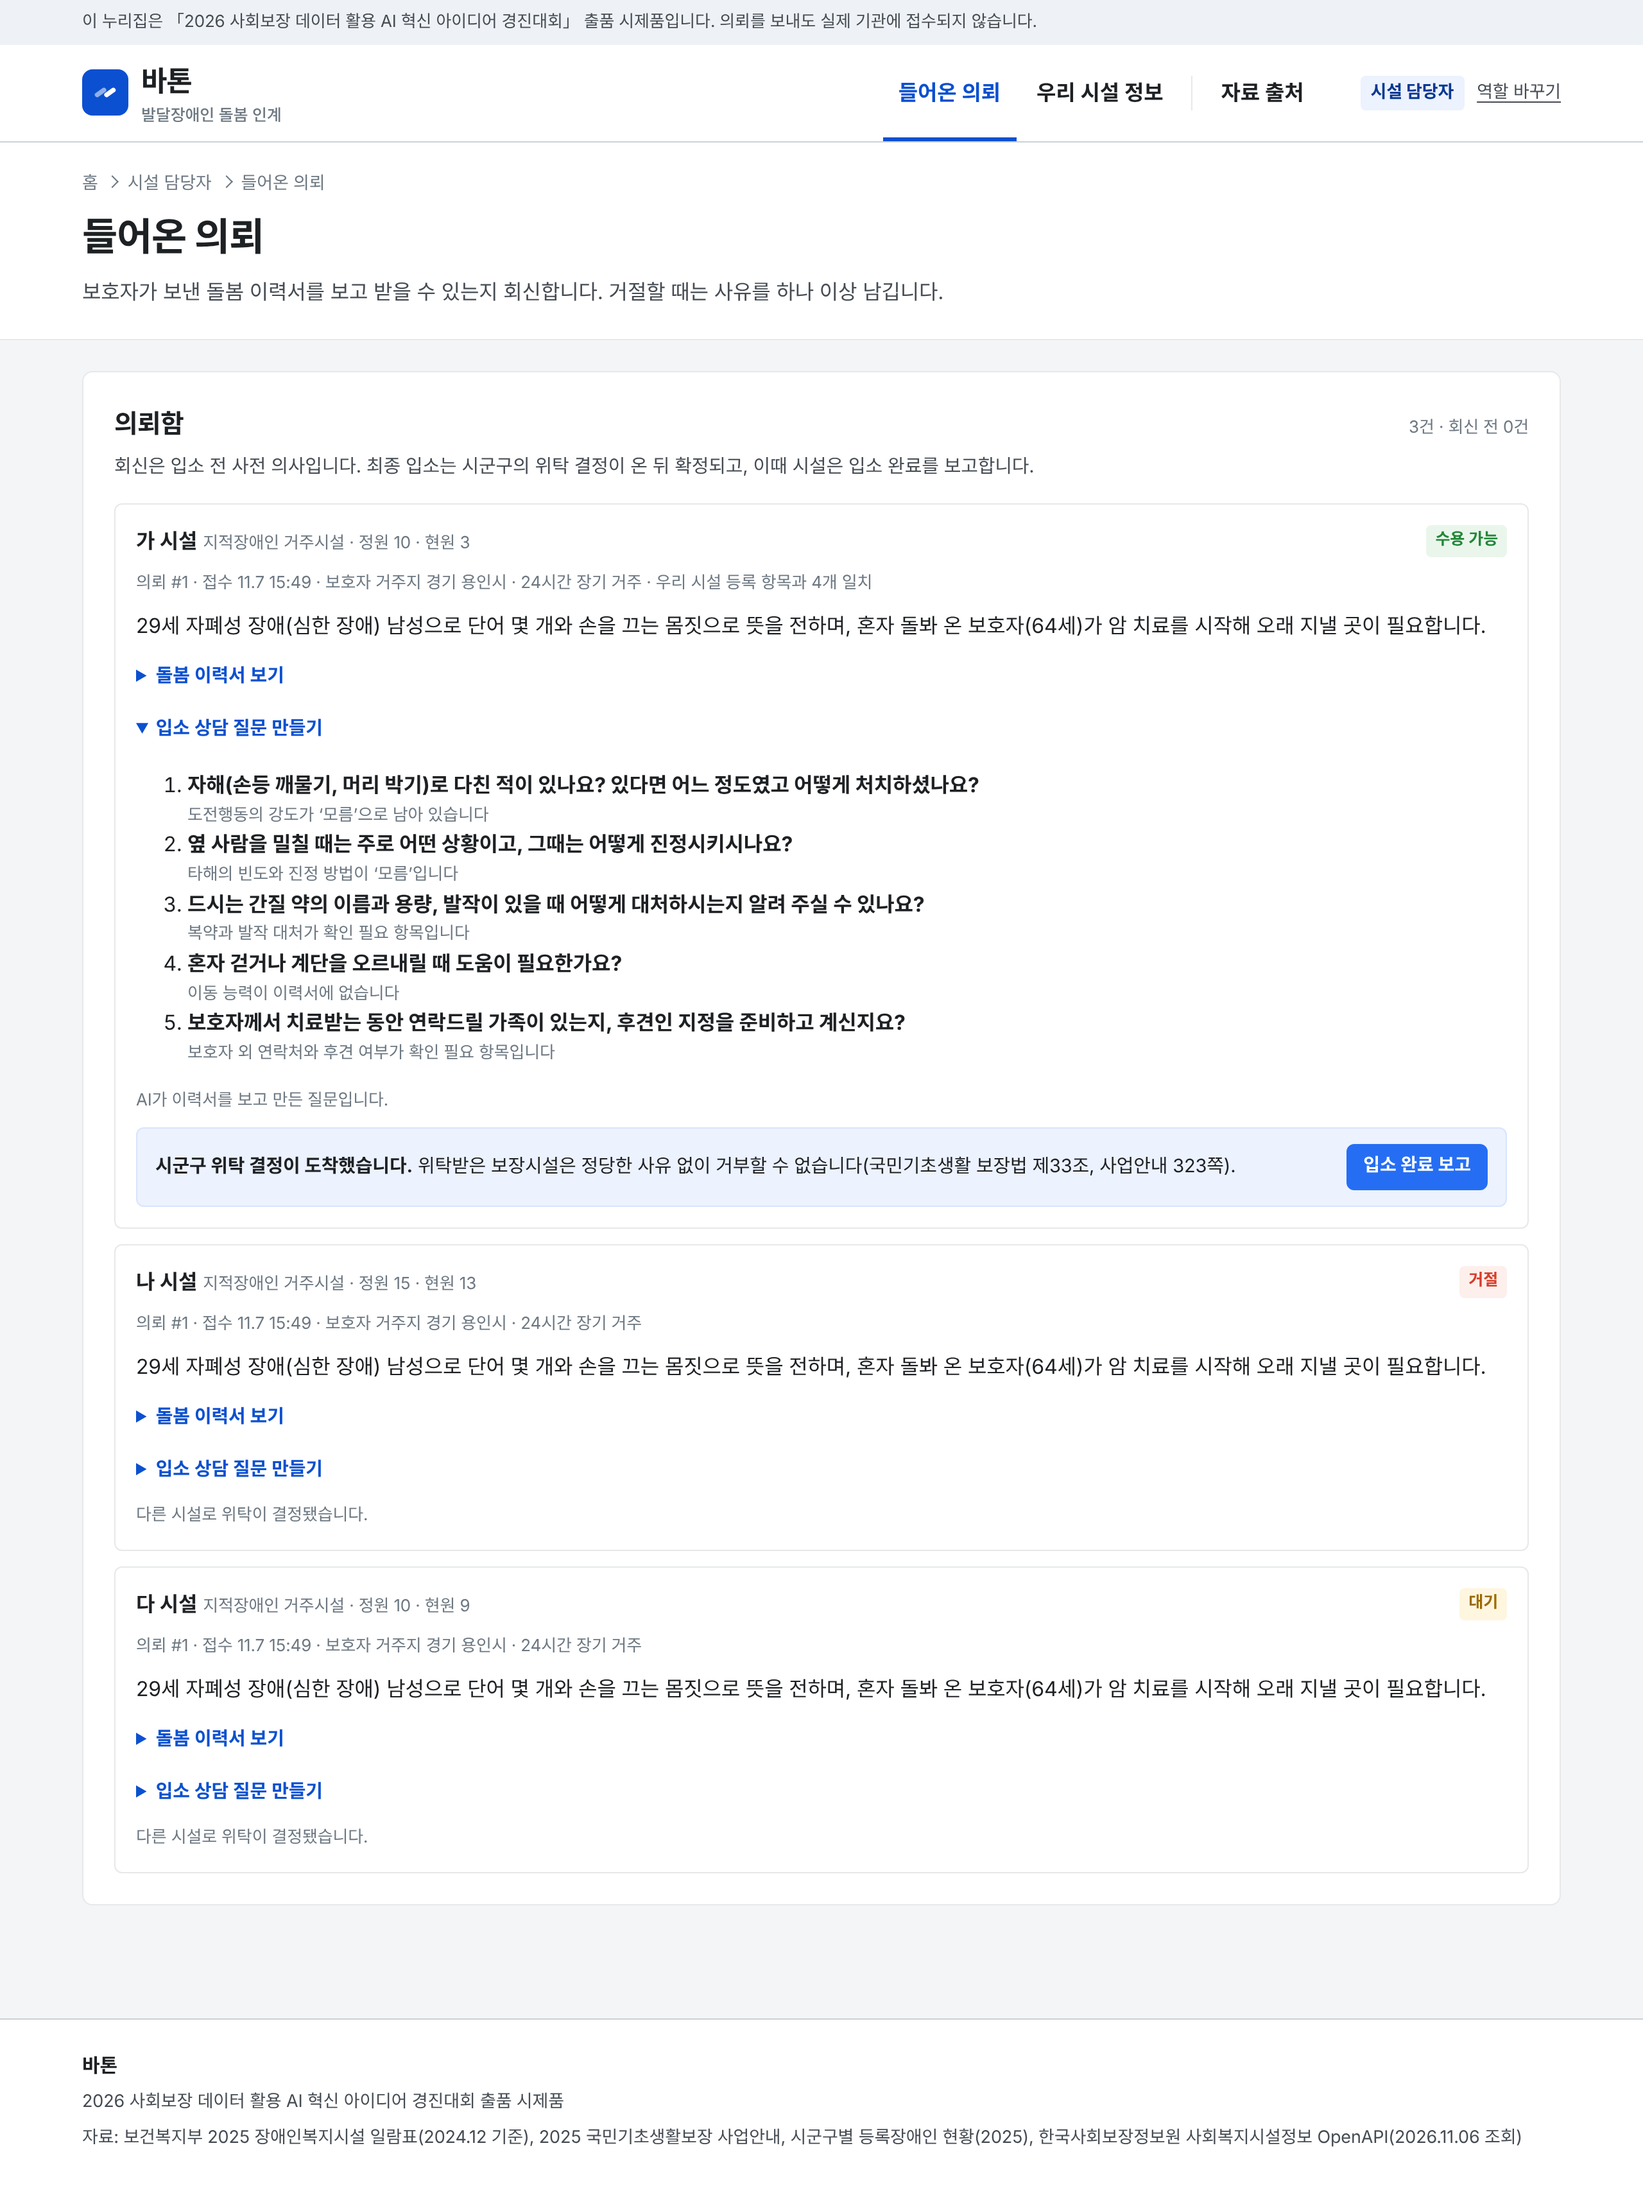
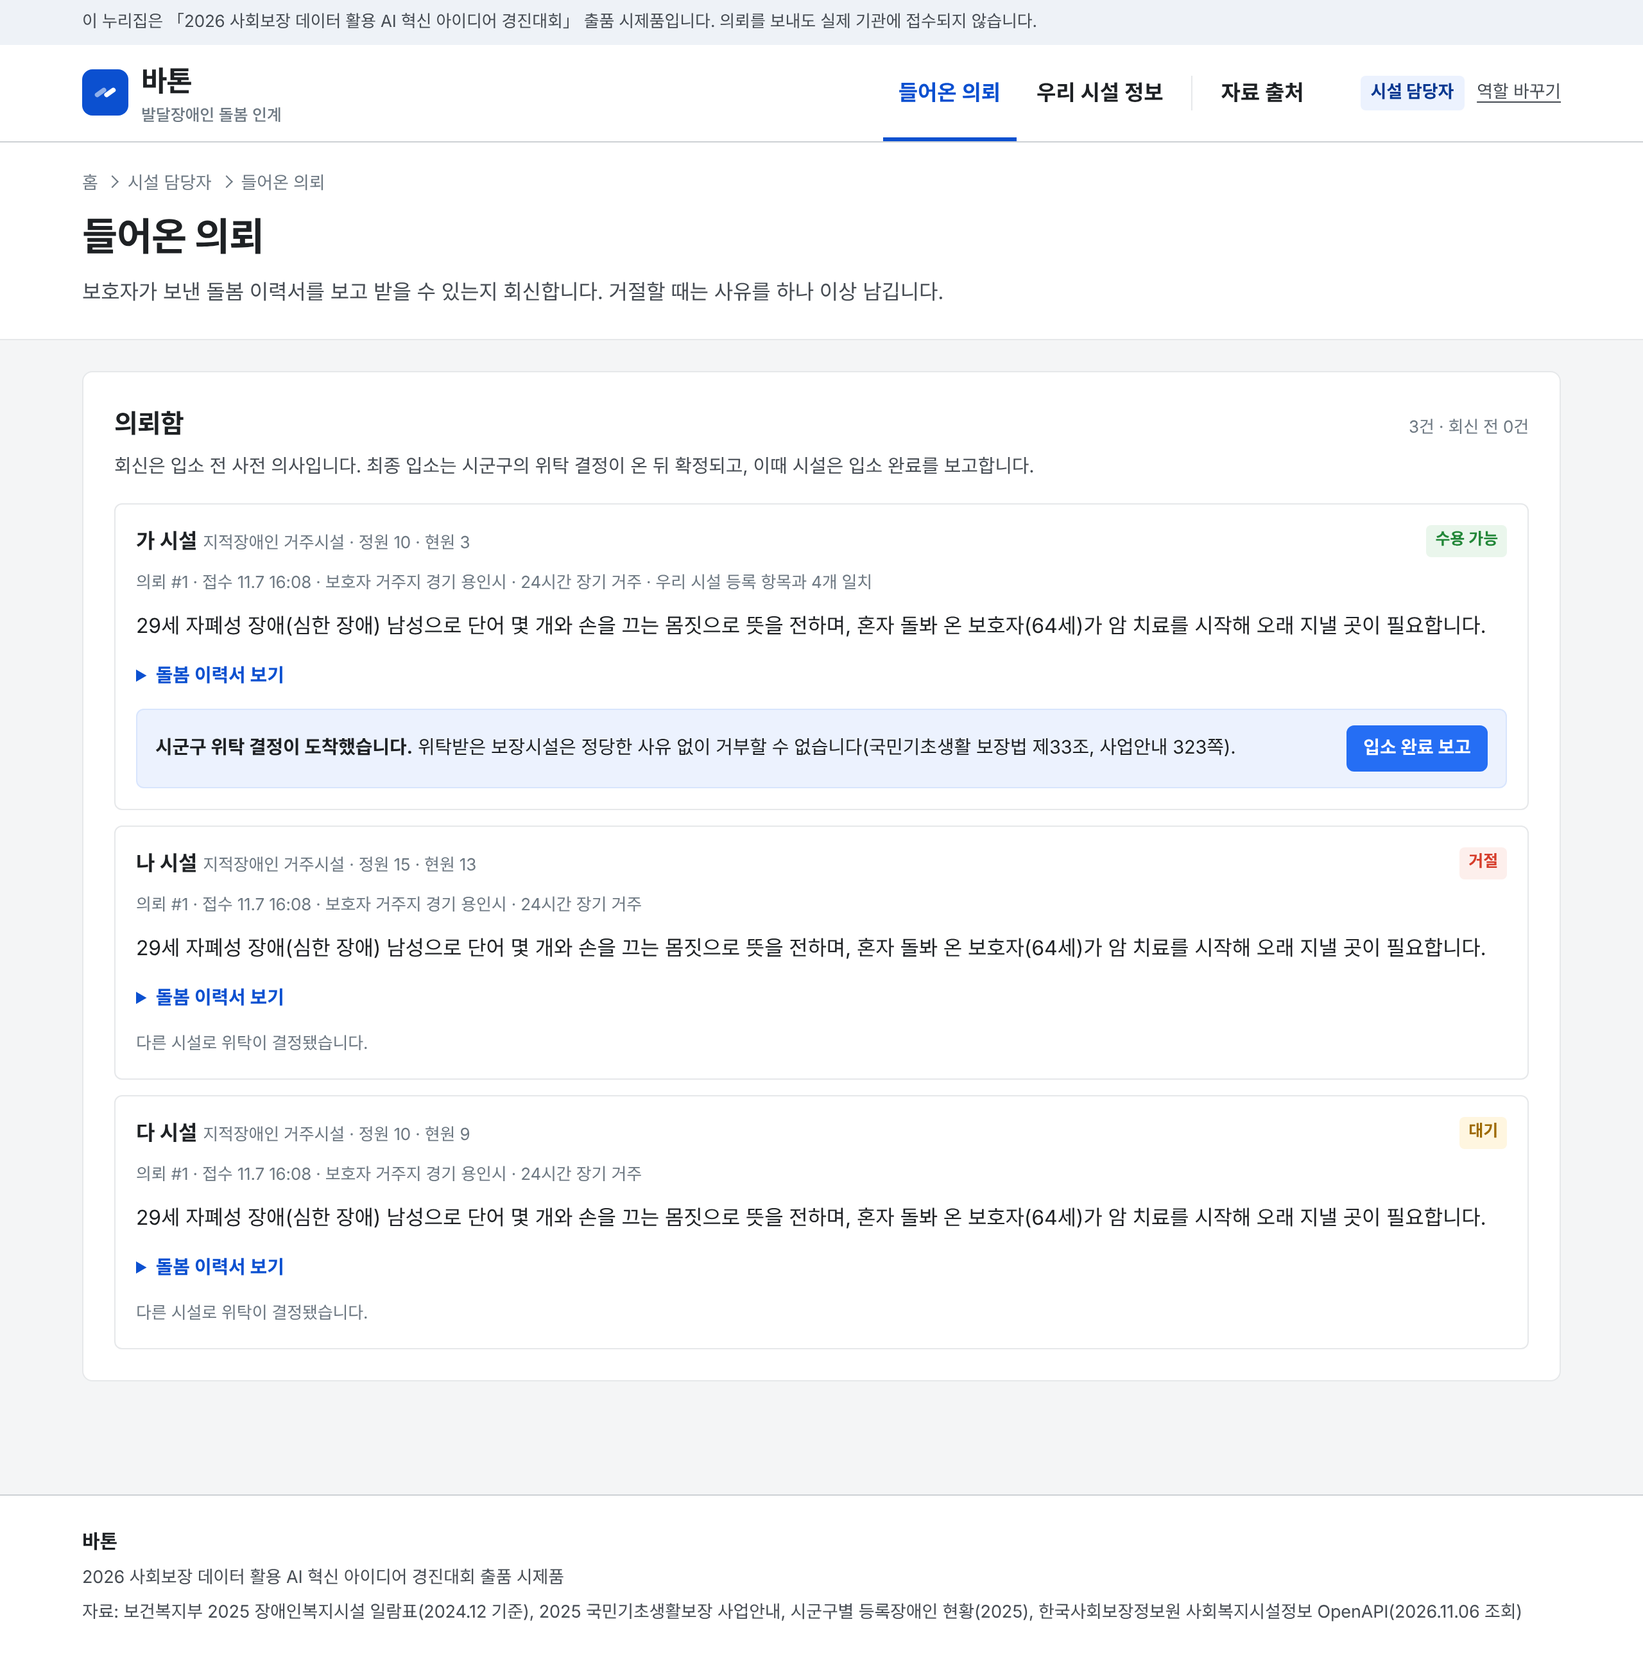
시설 화면의 상담 질문 생성·거절 사유 AI 분류 제거, 캡처 갱신
Claude-Session: https://claude.ai/code/session_01E5iyJSof6tV4RX4q3ReZ3G

diff --git a/web_demo/index.html b/web_demo/index.html
@@ -911,7 +911,7 @@ $("sendBtn").onclick=()=>{
   if(!SEL.size){$("sendState").textContent="먼저 시설을 1곳 이상 고르세요.";return;}
   const s=$("selSido").value, g=$("selSgg").value;
   const c={id:CASES.length+1,resume:RESUME,who:RESUME.요약||"돌봄 이력서",from:s+" "+g,need:need(),picks:[...SEL],checks:{q:false,g:false,h:false},entrusted:null,admitted:false,log:[],at:stamp()};
-  c.refs=c.picks.map(fi=>{const r={id:REFS.length+1,fac:fi,caseId:c.id,status:"미회신",reasons:[],note:"",aiNote:null,qs:null}; REFS.push(r); return r;});
+  c.refs=c.picks.map(fi=>{const r={id:REFS.length+1,fac:fi,caseId:c.id,status:"미회신",reasons:[]}; REFS.push(r); return r;});
   logC(c,"보호자",`의뢰서 제출: 시설 ${c.picks.length}곳과 ${c.from} 주민센터에 동시 전달`);
   CASES.push(c); SEL.clear(); renderFacs(); renderLetter(); renderRefStats();
   location.hash="g4";
@@ -956,33 +956,6 @@ function resumeHTML(r){
 }
 
 /* 시설: 들어온 의뢰 */
-async function aiQuestions(r){
-  const c=caseOf(r), f=FAC[r.fac];
-  let qs=null, how="";
-  if(SAMPLE){
-    try{ const o=await SAMPLE.json(`당신은 발달장애인 거주시설의 입소 상담 담당자입니다. 아래 돌봄 이력서만 보고, 입소 상담 때 보호자에게 꼭 물어야 할 질문 5개를 만드세요.
-규칙: 이력서의 '확인_필요'와 도전행동의 '모름' 항목을 먼저 다루고, 우리 시설 유형(${TYPE_NAME[f.type]})에서 안전하게 돌보는 데 필요한 것을 물으세요. 이력서에 없는 사실을 전제하지 마세요. 존중하는 말투로 쓰세요.
-JSON 형식으로만 답하세요: {"질문":[{"질문":"","이유":""}]}
-돌봄 이력서: ${JSON.stringify(c.resume)}`,{modelTier:"default"}); if(o&&Array.isArray(o.질문)){qs=o.질문; how="AI";} }catch(e){ qs=null; }
-  }
-  if(!qs){ qs=(c.resume.확인_필요||[]).map(x=>({질문:x.replace(/[.]$/,"")+"에 대해 알려 주실 수 있나요?",이유:"이력서에 '확인 필요'로 남은 항목"})); how="서식"; }
-  r.qs={how,list:qs};
-}
-async function aiReason(r){
-  const text=r.note.trim(); if(!text) return;
-  let codes=null, how="";
-  if(SAMPLE){
-    try{ const o=await SAMPLE.json(`시설이 발달장애인 입소 의뢰를 거절하며 적은 사유를 아래 코드로 분류하세요. 해당하는 코드를 모두 고르고, 문장에 근거가 없는 코드는 고르지 마세요.
-코드: ${REASONS.join(", ")}
-JSON 형식으로만 답하세요: {"코드":[""],"요약":"한 문장"}
-사유: """${text}"""`,{modelTier:"default"}); if(o&&Array.isArray(o.코드)){codes=o.코드.filter(x=>REASONS.includes(x)); how="AI"; r.aiNote=o.요약||"";} }catch(e){ codes=null; }
-  }
-  if(!codes){
-    const k=[["종사자 부족",/인력|종사자|교사|선생님|사람이 부족/],["도전행동 대응 어려움",/자해|타해|도전|공격|행동/],["의료 처치 불가",/의료|간호|발작|간질|처치/],["성별·생활공간 문제",/성별|남성|여성|방|공간/],["정원 없음",/정원|자리가|만실|빈자리/]];
-    codes=k.filter(([,re])=>re.test(text)).map(([c])=>c); if(!codes.length) codes=["기타"]; how="키워드";
-  }
-  r.reasons=[...new Set([...r.reasons,...codes])]; r.aiHow=how;
-}
 function renderInbox(){
   const open=REFS.filter(r=>r.status==="미회신").length;
   $("inboxCount").textContent=REFS.length?`${REFS.length}건 · 회신 전 ${open}건`:"";
@@ -994,22 +967,17 @@ function renderInbox(){
     if(entrusted) act=c.admitted?`<div class="note okn">입소 완료를 보고했습니다. 시군구와 보호자 화면에 반영됐습니다.</div>`:`<div class="entrust"><span><b>시군구 위탁 결정이 도착했습니다.</b> 위탁받은 보장시설은 정당한 사유 없이 거부할 수 없습니다(국민기초생활 보장법 제33조, 사업안내 323쪽).</span><button class="btn sm" data-admit="${r.id}" type="button">입소 완료 보고</button></div>`;
     else if(other) act=`<div class="src">다른 시설로 위탁이 결정됐습니다.</div>`;
     else act=`<div class="btns"><span class="src">회신</span><button class="btn sm ${r.status==="수용"?"":"ghost"}" data-st="수용" data-r="${r.id}" type="button">수용 가능</button><button class="btn sm ${r.status==="대기"?"":"ghost"}" data-st="대기" data-r="${r.id}" type="button">대기 등록</button><button class="btn sm ${r.status==="거절"?"":"ghost"}" data-st="거절" data-r="${r.id}" type="button">거절</button></div>
-      ${r.status==="거절"?`<div class="rjbox"><label class="f" for="rn${r.id}">거절 사유를 적어 주세요(필수)</label><textarea id="rn${r.id}" data-note="${r.id}" style="min-height:70px">${esc(r.note)}</textarea><div class="btns" style="margin-top:8px"><button class="btn sm" data-classify="${r.id}" type="button">AI로 사유 분류</button><span class="src">${r.aiHow?`${r.aiHow==="AI"?"AI 분류":"키워드 분류(AI 미연결)"} 결과를 확인하고 고치세요`:"적은 문장을 표준 사유 코드로 바꿔 관할 통계에 쌓습니다"}</span></div>
-        <div class="reasons" style="margin-top:8px">${REASONS.map(x=>`<button type="button" aria-pressed="${r.reasons.includes(x)}" data-rs="${x}" data-r="${r.id}">${x}</button>`).join("")}</div>${r.aiNote?`<div class="src" style="margin-top:6px">AI 요약: ${esc(r.aiNote)}</div>`:""}</div>`:""}`;
+      ${r.status==="거절"?`<div class="rjbox"><div class="f" style="margin-bottom:6px">거절 사유(필수, 여러 개 선택)</div><div class="reasons">${REASONS.map(x=>`<button type="button" aria-pressed="${r.reasons.includes(x)}" data-rs="${x}" data-r="${r.id}">${x}</button>`).join("")}</div></div>`:""}`;
     return `<div class="refitem">
       <div class="top"><div><b>${esc(nm(f.i))}</b> <span class="src">${TYPE_NAME[f.type]} · 정원 ${f.cap} · 현원 ${f.cur}</span></div><span class="pill ${ST_CLS[r.status]}">${ST_LABEL[r.status]}</span></div>
       <div class="src">의뢰 #${c.id} · 접수 ${c.at} · 보호자 거주지 ${esc(c.from)} · ${NEED_LABEL[c.need]}${capM.length?` · 우리 시설 등록 항목과 ${capM.length}개 일치`:""}</div>
       <div>${esc(c.who)}</div>
       <details><summary>돌봄 이력서 보기</summary><div class="resume" style="margin-top:10px">${resumeHTML(c.resume)}</div></details>
-      <details ${r.qs?"open":""}><summary>입소 상담 질문 만들기</summary><div style="margin-top:8px">${r.qs?`<ol class="tight">${r.qs.list.map(q=>`<li><b>${esc(q.질문)}</b><div class="src">${esc(q.이유||"")}</div></li>`).join("")}</ol><div class="src">${r.qs.how==="AI"?"AI가 이력서를 보고 만든 질문입니다.":"AI 미연결: 이력서의 ‘확인 필요’ 항목으로 만든 질문입니다."}</div>`:`<button class="btn sm ghost" data-qs="${r.id}" type="button">이력서로 상담 질문 만들기</button>`}</div></details>
       ${act}
     </div>`}).join("");
   const R=id=>REFS.find(x=>x.id===+id);
-  document.querySelectorAll("[data-st]").forEach(b=>b.onclick=()=>{const r=R(b.dataset.r); r.status=b.dataset.st; if(r.status!=="거절"){r.reasons=[];r.note="";r.aiNote=null;r.aiHow=null;} logC(caseOf(r),"시설",`${nm(r.fac)}: ${ST_LABEL[r.status]} 회신`); renderInbox(); renderRefStats();});
-  document.querySelectorAll("[data-rs]").forEach(b=>b.onclick=()=>{const r=R(b.dataset.r); const x=b.dataset.rs; r.reasons=r.reasons.includes(x)?r.reasons.filter(y=>y!==x):[...r.reasons,x]; renderInbox(); renderRefStats();});
-  document.querySelectorAll("[data-note]").forEach(t=>t.oninput=()=>{R(t.dataset.note).note=t.value;});
-  document.querySelectorAll("[data-classify]").forEach(b=>b.onclick=async()=>{const r=R(b.dataset.classify); b.disabled=true; b.innerHTML='<span class="spin"></span> 분류 중'; await aiReason(r); logC(caseOf(r),"시설",`${nm(r.fac)}: 거절 사유 ${r.reasons.join(", ")}`); renderInbox(); renderRefStats();});
-  document.querySelectorAll("[data-qs]").forEach(b=>b.onclick=async()=>{const r=R(b.dataset.qs); b.disabled=true; b.innerHTML='<span class="spin"></span> 만드는 중'; await aiQuestions(r); renderInbox();});
+  document.querySelectorAll("[data-st]").forEach(b=>b.onclick=()=>{const r=R(b.dataset.r); r.status=b.dataset.st; if(r.status!=="거절") r.reasons=[]; logC(caseOf(r),"시설",`${nm(r.fac)}: ${ST_LABEL[r.status]} 회신`); renderInbox(); renderRefStats();});
+  document.querySelectorAll("[data-rs]").forEach(b=>b.onclick=()=>{const r=R(b.dataset.r); const x=b.dataset.rs; r.reasons=r.reasons.includes(x)?r.reasons.filter(y=>y!==x):[...r.reasons,x]; if(r.reasons.includes(x)) logC(caseOf(r),"시설",`${nm(r.fac)}: 거절 사유 ${x}`); renderInbox(); renderRefStats();});
   document.querySelectorAll("[data-admit]").forEach(b=>b.onclick=()=>{const r=R(b.dataset.admit), c=caseOf(r); c.admitted=true; logC(c,"시설",`${nm(r.fac)}: 입소 완료 보고`); renderInbox();});
   if(typeof renderNav==="function") renderNav("facility");
 }

diff --git a/README.md b/README.md
@@ -21,10 +21,10 @@
 | 역할 | 할 수 있는 일 |
 |---|---|
 | 발달장애인 보호자 | 메모를 AI가 돌봄 이력서로 정리 → 사는 곳의 돌봄 경로와 추천 시설 확인 → 시설과 주민센터에 동시 의뢰 → 진행 상황 확인 |
-| 시설 담당자 | 들어온 의뢰와 이력서 확인, AI 입소 상담 질문 생성, 수용 가능·대기·거절 회신(거절 사유 AI 분류), 우리 시설이 대응할 수 있는 돌봄 등록 |
+| 시설 담당자 | 들어온 의뢰와 이력서 확인, 수용 가능·대기·거절 회신(거절 시 사유 선택), 우리 시설이 대응할 수 있는 돌봄 등록 |
 | 담당 공무원 | 의뢰별 자격 검토와 위탁 결정, 관할 시군구 현황(2026 API 현행화), AI 주간 보고서 초안, 돌봄 공백 현황, 보조금 설계 |
 
-AI 기능(이력서 정리, 상담 질문, 거절 사유 분류, 보고서 초안)은 생성형 AI가 연결된 환경에서 동작하고, 연결되지 않으면 같은 화면에서 규칙 기반 결과로 대신합니다. 수치는 모두 코드가 계산하고, AI는 문장 정리와 분류만 맡습니다.
+AI 기능(돌봄 이력서 정리, 보고서 초안)은 생성형 AI가 연결된 환경에서 동작하고, 연결되지 않으면 같은 화면에서 규칙 기반 결과로 대신합니다. 수치는 모두 코드가 계산하고, AI는 문장 정리와 분류만 맡습니다.
 
 ## 사용한 데이터
 
